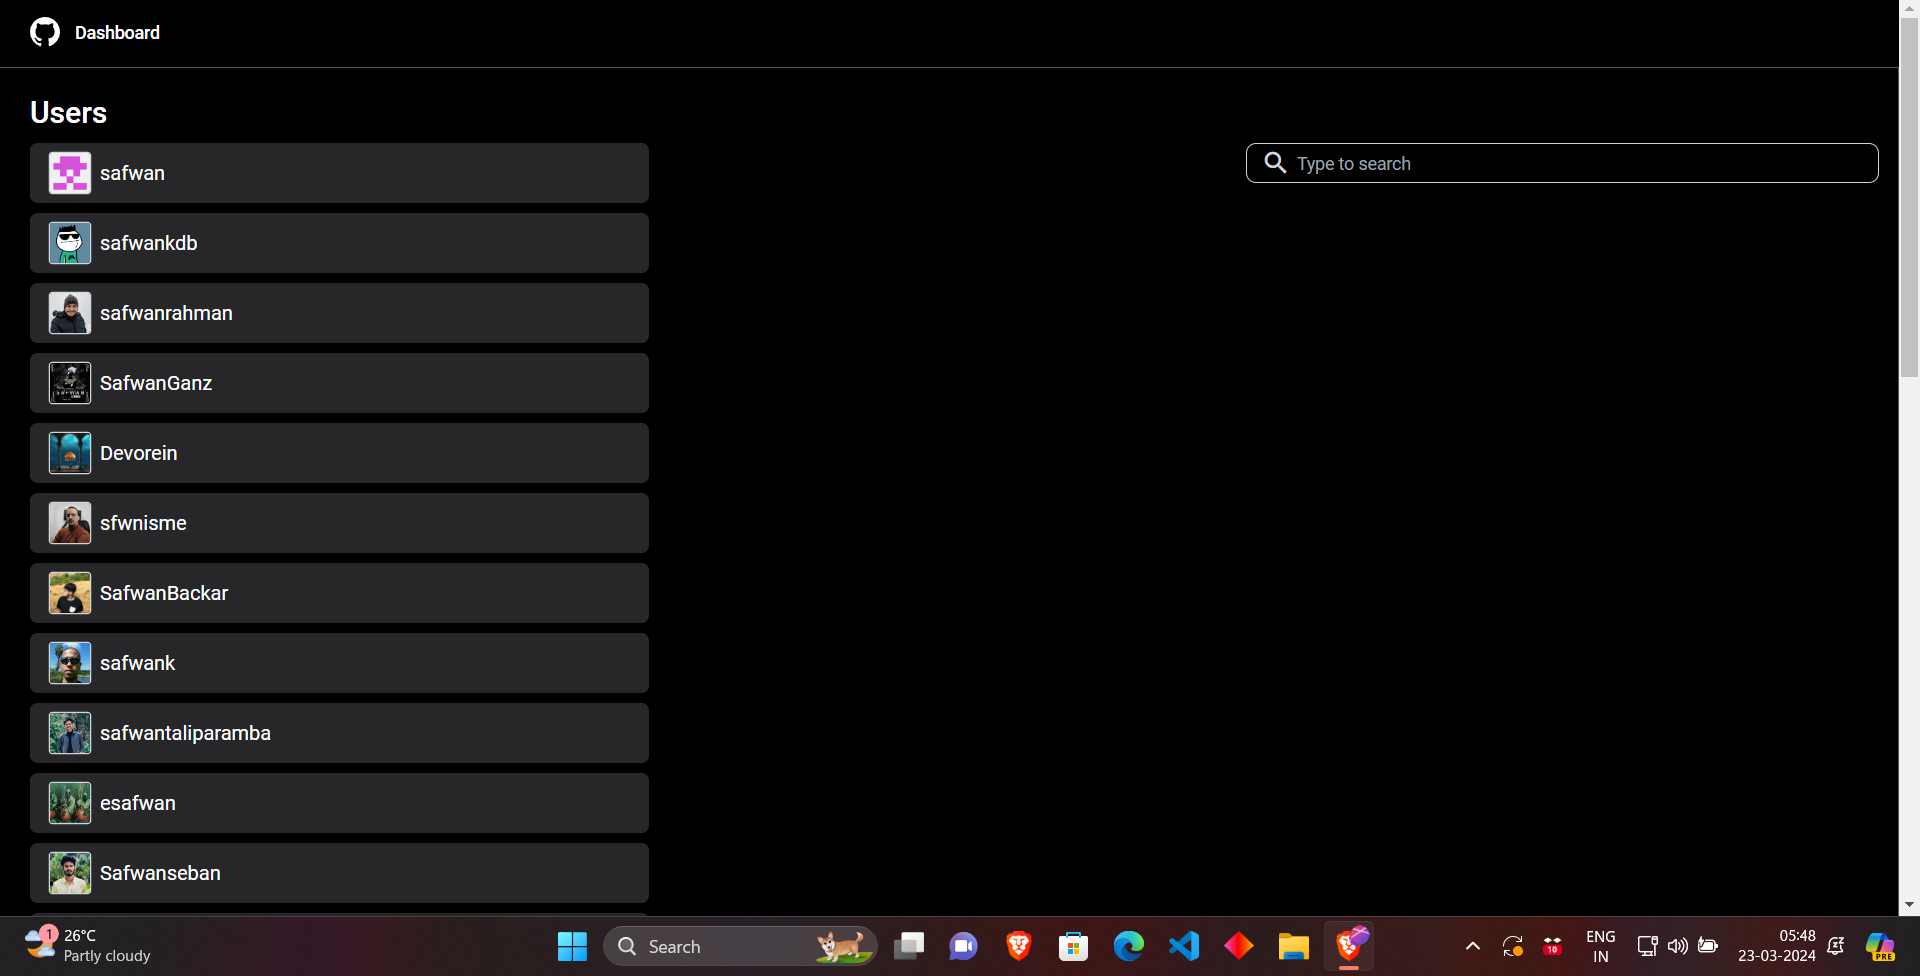
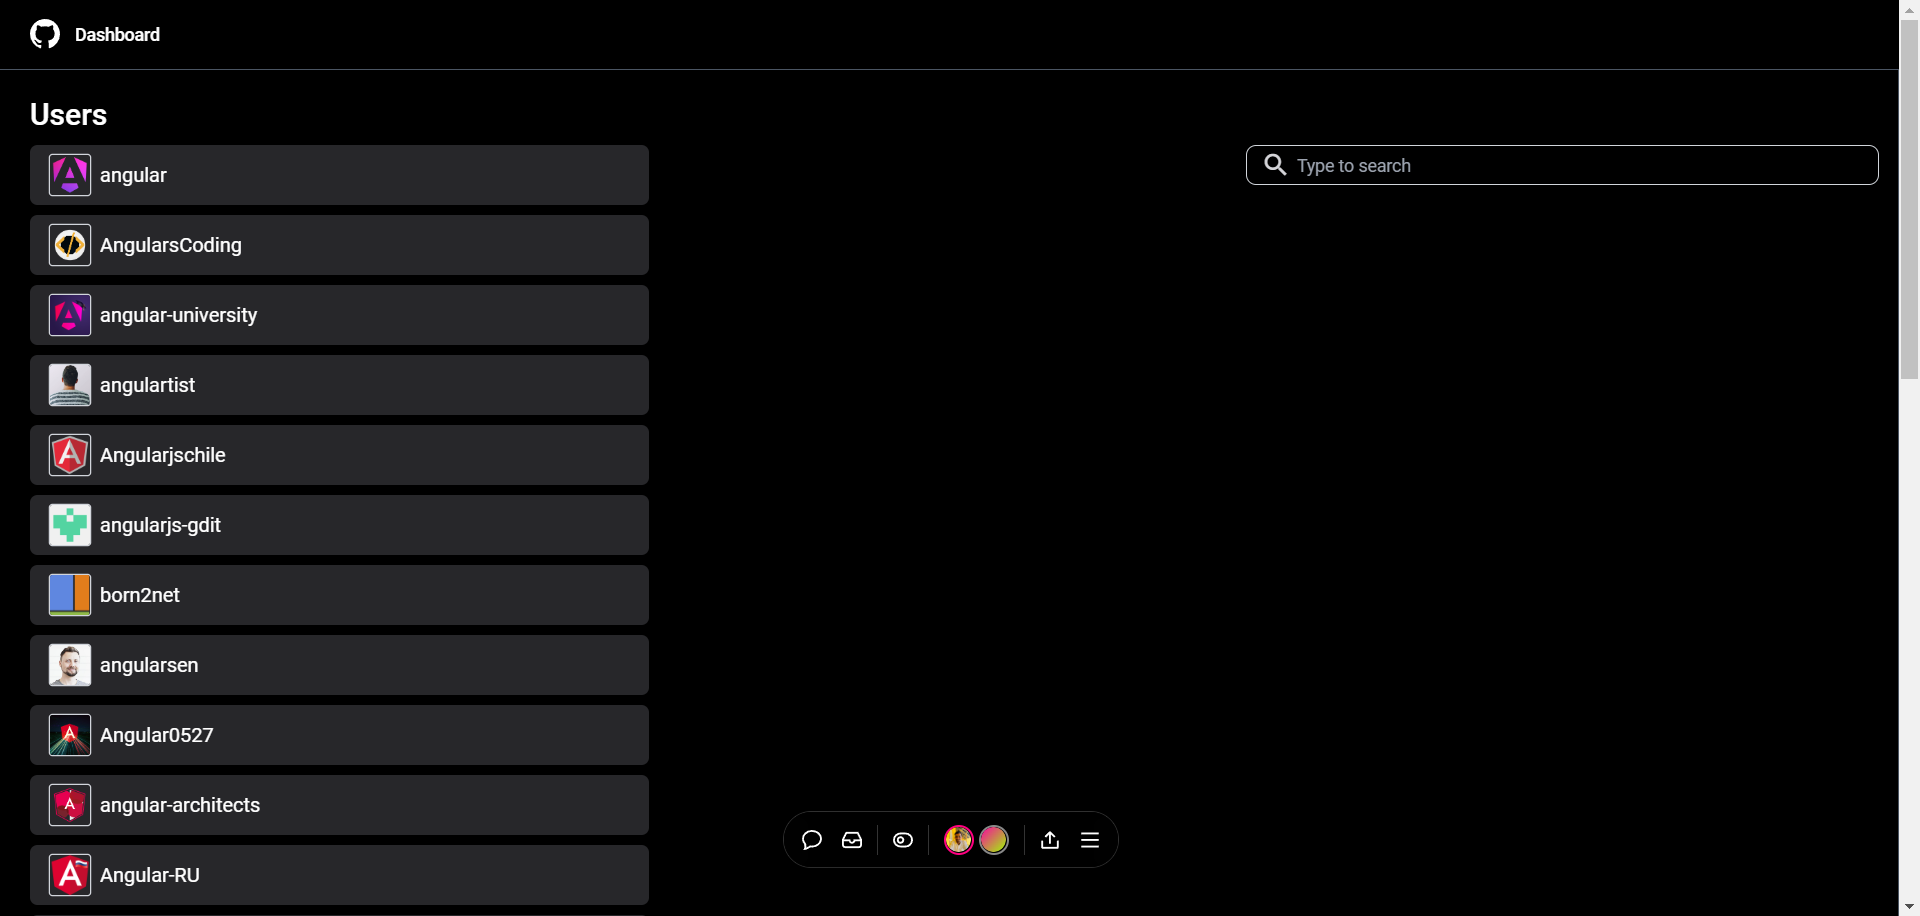
update:Screenshot updated in README.md

diff --git a/src/app/components/repo-capsule/repo-capsule.component.ts b/src/app/components/repo-capsule/repo-capsule.component.ts
@@ -40,7 +40,7 @@ export class RepoCapsuleComponent {
         this.api_loading = false;
       },
       error: (err: any) => {
-        console.error('Error in Cart API call', err);
+        console.error('Error in user api call', err);
         this.api_loading = true;
         this.api_error = true;
       },

diff --git a/src/app/pages/profile-page/profile-page.component.ts b/src/app/pages/profile-page/profile-page.component.ts
@@ -40,10 +40,7 @@ export class ProfilePageComponent {
   // Total number of repositories
   totalrepo: string = '';
 
-  /**
-   * Constructor to get the ActivatedRoute object
-   * @param route - ActivatedRoute object
-   */
+  
   constructor(private route: ActivatedRoute) {}
 
   /**

diff --git a/src/app/app.component.html b/src/app/app.component.html
@@ -1,5 +1,6 @@
+<!-- Header component of the app -->
 <app-header ></app-header>
+<!-- Outlet for the router, will display the current route -->
 <router-outlet ></router-outlet>
-<!-- <app-user-page/> -->
-<!-- <app-profile-page/>   -->
   
+

diff --git a/README.md b/README.md
@@ -48,4 +48,9 @@ Run `ng e2e` to execute the end-to-end tests via a platform of your choice. To u
 
 To get more help on the Angular CLI use `ng help` or go check out the [Angular CLI Overview and Command Reference](https://angular.io/cli) page.
 
-![Screenshot](https://github.com/GERYMEN/github-user-Search/blob/main/screeshot/page1.png?raw=true)
+# ScreenShot
+
+ ![Screenshot](https://github.com/GERYMEN/github-user-Search/blob/main/screeshot/page1.png?raw=true)
+ ![Screenshot](https://github.com/GERYMEN/github-user-Search/blob/main/screeshot/Search.png?raw=true)
+ ![Screenshot](https://github.com/GERYMEN/github-user-Search/blob/main/screeshot/profilePage.png?raw=true)
+ ![Screenshot](https://github.com/GERYMEN/github-user-Search/blob/main/screeshot/ErrorHandling.png?raw=true)
